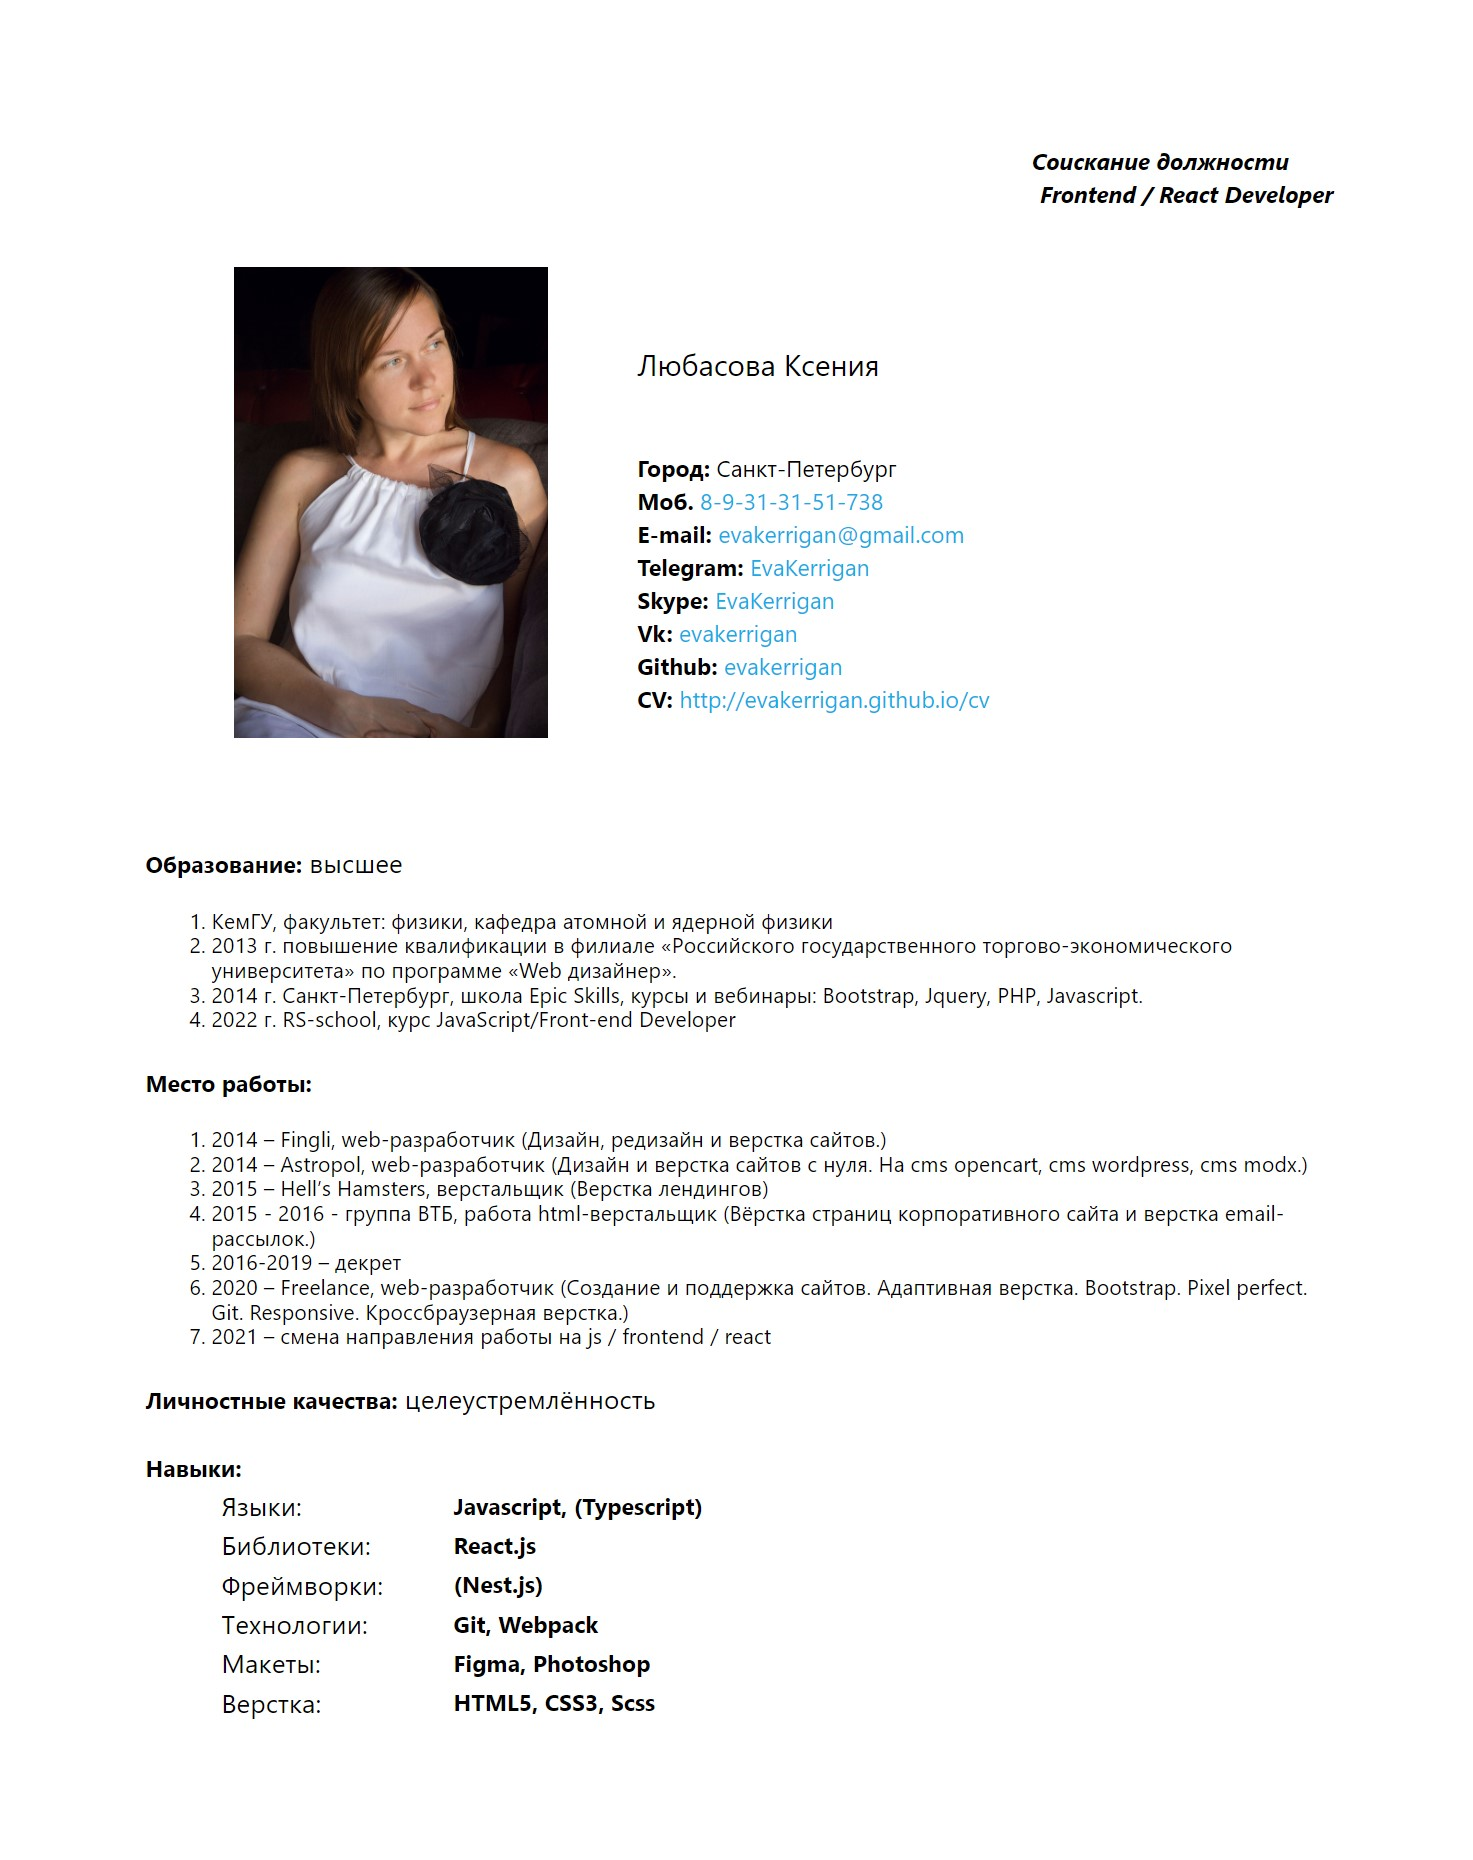
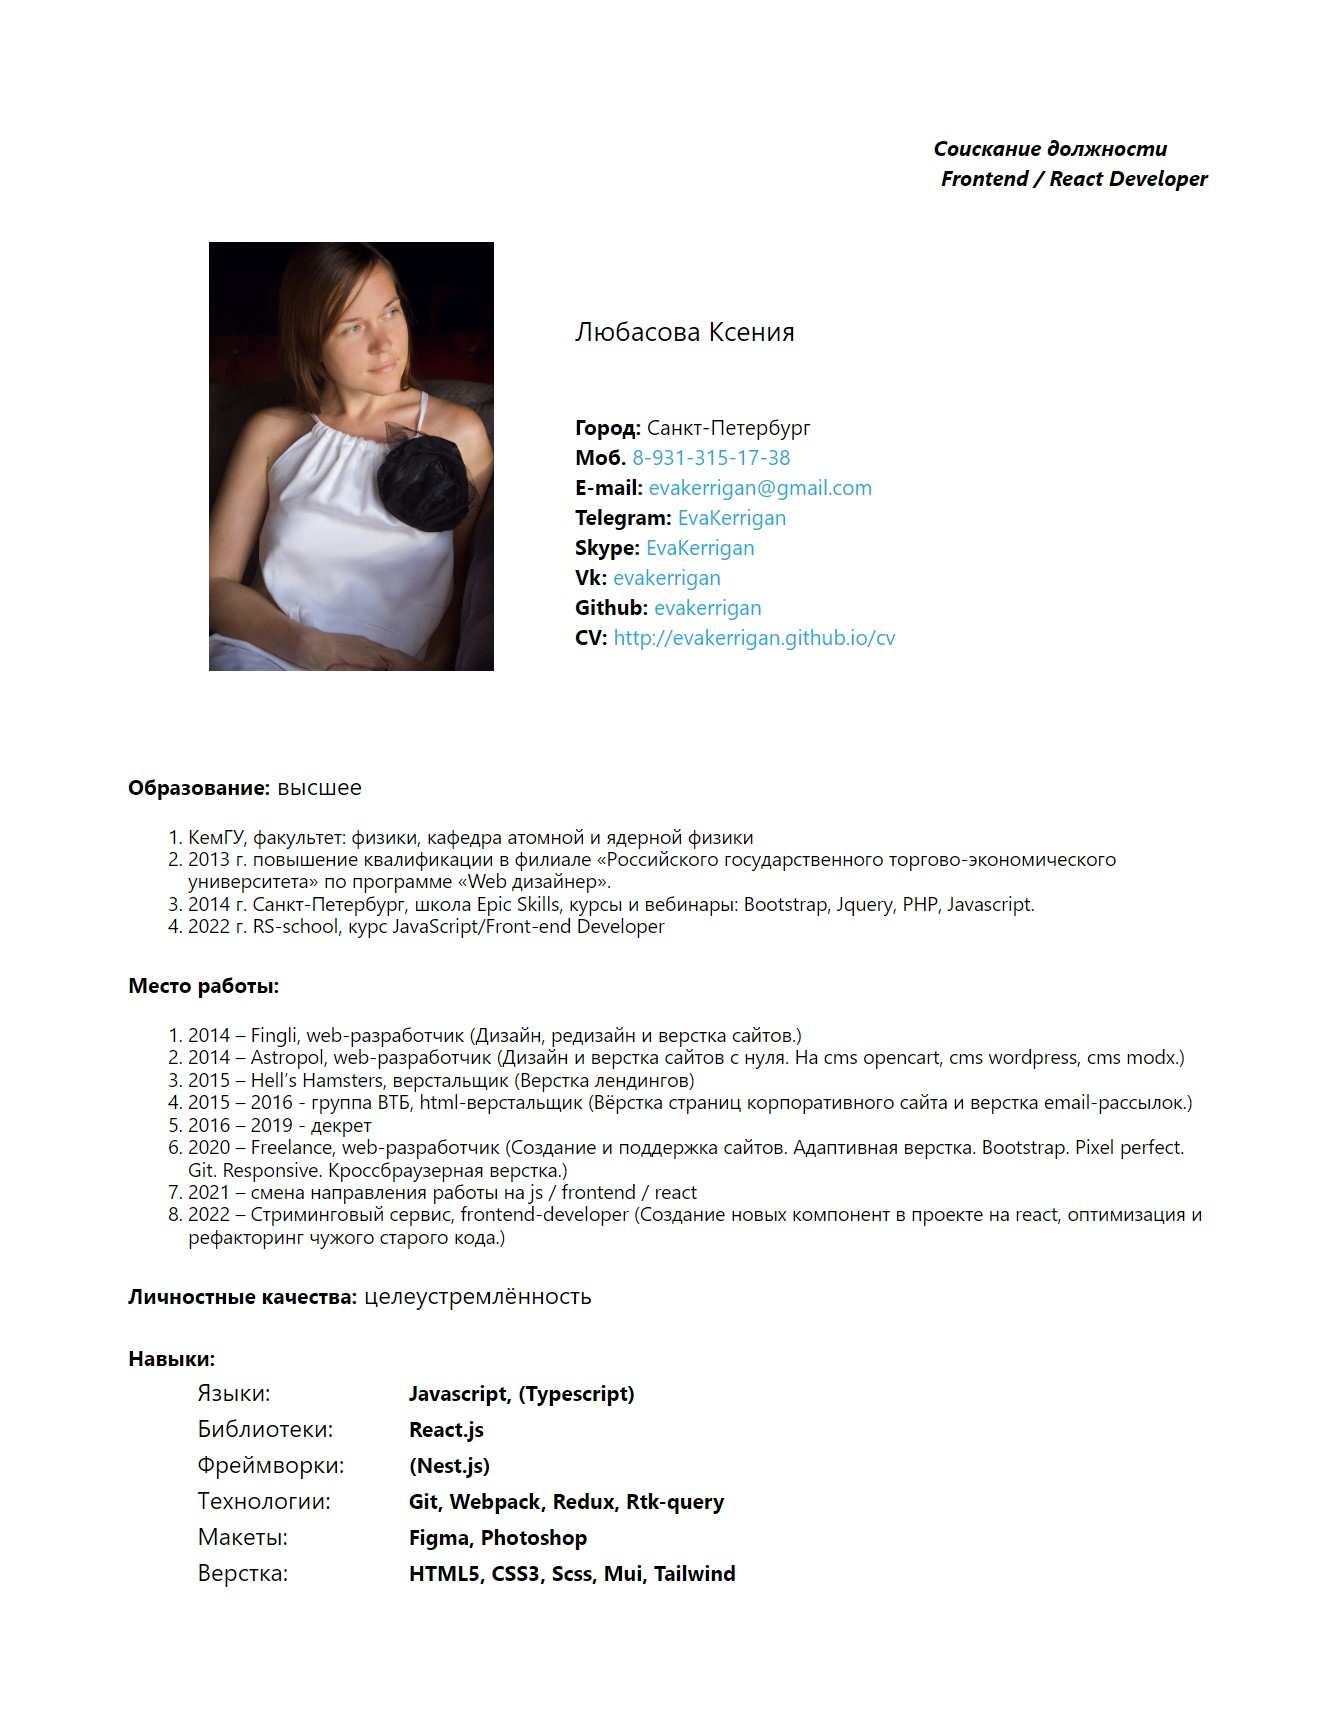
feat: add projects

diff --git a/index.html b/index.html
@@ -117,6 +117,7 @@
                         <section id="hobbies">
                             <h2 class="content-title">Увлечения</h2>
                             <ul class="content-hobbies-list">
+                                <li class="content-hobbies-item">IT</li>
                                 <li class="content-hobbies-item">Фотография</li>
                                 <li class="content-hobbies-item">Психология</li>
                                 <li class="content-hobbies-item">Путешествия</li>
@@ -132,6 +133,20 @@
                     <section id="experience">
                         <h2 class="content-title">Опыт работы</h2>
                         <ul class="content-expiriens-list">
+                            <li class="content-expiriens-item expiriens-wrapper">
+                                <div class="expiriens-left-block">
+                                    <div class="content-expiriens-date">2022</div>
+                                    <div class="content-expiriens-company">Стриминговый<br /> сервис</div>
+                                </div>
+                                <div class="expiriens-right-block">
+                                    <div class="content-expiriens-profession">Frontend-разработчик</div>
+                                    <div class="content-expiriens-tasks">
+                                        Работа в экосистеме React.js. Создание новых компонент в проекте,
+                                        оптимизация и рефакторинг чужого старого кода, настройка используемых
+                                        внешних библиотек под особенности проекта.
+                                    </div>
+                                </div>
+                            </li>
                             <li class="content-expiriens-item expiriens-wrapper">
                                 <div class="expiriens-left-block">
                                     <div class="content-expiriens-date">2019-2020</div>
@@ -201,14 +216,19 @@
                             <li class="content-skills-item"><span>JavaScript</span></li>
                             <li class="content-skills-item"><span>TypeScript</span></li>
                             <li class="content-skills-item"><span>React</span></li>
+                            <li class="content-skills-item"><span>Redux</span></li>
+                            <li class="content-skills-item"><span>Rtk Query</span></li>
                             <li class="content-skills-item"><span>HTML5</span></li>
                             <li class="content-skills-item"><span>CSS3</span></li>
                             <li class="content-skills-item"><span>Figma</span></li>
                             <li class="content-skills-item"><span>Photoshop</span></li>
                             <li class="content-skills-item"><span>GIT</span></li>
                             <li class="content-skills-item"><span>Pixel Perfect</span></li>
+                            <li class="content-skills-item"><span>Vite</span></li>
                             <li class="content-skills-item"><span>Webpack</span></li>
                             <li class="content-skills-item"><span>Scss</span></li>
+                            <li class="content-skills-item"><span>Trello</span></li>
+                            <li class="content-skills-item"><span>Jira</span></li>
                         </ul>
                     </section>
                 </div>
@@ -223,7 +243,15 @@
                             <img class="portfolio-img" src="image/2023-eva-images.jpg" alt="rs-club">
                         </a>
                         <div class="portfolio-description">
-                            <em>React, ts, jest, портфолио-магазин фотографий для рекламы</em>
+                            <em>Портфолио-магазин, React, typescript, jest, redux, rtk Query</em>
+                        </div>
+                    </li>
+                    <li class="portfolio-item">
+                        <a class="portfolio-link" href="https://evakerrigan.github.io/exotic-fruit/" target="_blank">
+                            <img class="portfolio-img" src="image/2022-exotic-fruit.jpg" alt="shop exotic fruit">
+                        </a>
+                        <div class="portfolio-description">
+                            <em>Онлайн-магазин, React, корзина, дизайн, typescript </em>
                         </div>
                     </li>
                     <li class="portfolio-item">
@@ -231,7 +259,8 @@
                             <img class="portfolio-img" src="image/2023-rs-club.jpg" alt="rs-club">
                         </a>
                         <div class="portfolio-description">
-                            <em>React, Nest, Mongo, ts, командная работа, авторизация через github, deploy на
+                            <em>Социальная сеть, React, Nest, Mongo, typescript, командная работа, авторизация через
+                                github, deploy на
                                 vercel</em>
                         </div>
                     </li>
@@ -241,7 +270,15 @@
                             <img class="portfolio-img" src="image/2023-online-shop.jpg" alt="online-shop">
                         </a>
                         <div class="portfolio-description">
-                            <em>SPA, js, ts, командная работа</em>
+                            <em>Онлайн-магазин, SPA, js, typescript, командная работа</em>
+                        </div>
+                    </li>
+                    <li class="portfolio-item">
+                        <a class="portfolio-link" href="https://melodious-fox-fdc007.netlify.app/" target="_blank">
+                            <img class="portfolio-img" src="image/2023-graphiql-api.jpg" alt="graphiql-api">
+                        </a>
+                        <div class="portfolio-description">
+                            <em>Graphql-ide, react, typescript</em>
                         </div>
                     </li>
                 </ul>
@@ -256,11 +293,12 @@
                         </div>
                     </li>
                     <li class="portfolio-item">
-                        <a class="portfolio-link" href="https://evakerrigan.github.io/exotic-fruit/" target="_blank">
-                            <img class="portfolio-img" src="image/2022-exotic-fruit.jpg" alt="shop exotic fruit">
+                        <a class="portfolio-link" href="https://evakerrigan.github.io/eldritch-codejam/"
+                            target="_blank">
+                            <img class="portfolio-img" src="image/2022-eldritch.jpg" alt="eldritch">
                         </a>
                         <div class="portfolio-description">
-                            <em>React, корзина, дизайн, ts </em>
+                            <em>js, система замешивания карт</em>
                         </div>
                     </li>
                     <li class="portfolio-item">
@@ -283,15 +321,7 @@
                             <em>слайдер на css без js</em>
                         </div>
                     </li>
-                    <li class="portfolio-item">
-                        <a class="portfolio-link" href="https://evakerrigan.github.io/eldritch-codejam/"
-                            target="_blank">
-                            <img class="portfolio-img" src="image/2022-eldritch.jpg" alt="eldritch">
-                        </a>
-                        <div class="portfolio-description">
-                            <em>js, система замешивания карт</em>
-                        </div>
-                    </li>
+
                     <li class="portfolio-item">
                         <a class="portfolio-link"
                             href="https://rolling-scopes-school.github.io/evakerrigan-JSFE2022Q1/shelter/pages/main/index.html"
@@ -300,6 +330,16 @@
                         </a>
                         <div class="portfolio-description">
                             <em>адаптивный лендинг, js, пагинация, слайдер, попап</em>
+                        </div>
+                    </li>
+                    <li class="portfolio-item">
+                        <a class="portfolio-link"
+                            href="https://rolling-scopes-school.github.io/evakerrigan-JSFE2022Q3/online-zoo/pages/main/index.html"
+                            target="_blank">
+                            <img class="portfolio-img" src="image/2022-online-zoo.jpg" alt="online-zoo">
+                        </a>
+                        <div class="portfolio-description">
+                            <em>адаптивный лендинг, js, слайдер, попап</em>
                         </div>
                     </li>
                     <li class="portfolio-item">
@@ -319,16 +359,6 @@
                         </a>
                         <div class="portfolio-description">
                             <em>js, перетаскивание плашек, звуковое сопровождение</em>
-                        </div>
-                    </li>
-                    <li class="portfolio-item">
-                        <a class="portfolio-link"
-                            href="https://rolling-scopes-school.github.io/evakerrigan-JSFE2022Q3/online-zoo/pages/main/index.html"
-                            target="_blank">
-                            <img class="portfolio-img" src="image/2022-online-zoo.jpg" alt="online-zoo">
-                        </a>
-                        <div class="portfolio-description">
-                            <em>адаптивный лендинг, js, слайдер, попап</em>
                         </div>
                     </li>
                     <li class="portfolio-item">
@@ -438,8 +468,8 @@
                             <div class="">
                                 <div class="row b-resume-contacts">
                                     <div class="resume-photo">
-                                        <img src="image/me.jpg" class="b-resume-photo"
-                                            alt="my-photo" title="evakerrigan">
+                                        <img src="image/me.jpg" class="b-resume-photo" alt="my-photo"
+                                            title="evakerrigan">
                                     </div>
                                     <div class=""><br /><br />
                                         <div class="b-resume-name">
@@ -521,6 +551,10 @@
                                             верстка. Bootstrap. Pixel perfect. Git. Responsive. Кроссбраузерная
                                             верстка.) </li>
                                         <li>2021 – смена направления работы на js / frontend / react</li>
+                                        <li>2022 – Стриминговый сервис, frontend-developer
+                                            (Работа в экосистеме React.js. Создание новых компонент в проекте,
+                                            оптимизация и рефакторинг чужого старого кода, настройка используемых
+                                            внешних библиотек под особенности проекта.)</li>
                                     </ol>
                                 </div>
                             </div>
@@ -551,7 +585,7 @@
                                         </tr>
                                         <tr>
                                             <td>Технологии: </td>
-                                            <td><span><strong>Git, Webpack</strong></span></td>
+                                            <td><span><strong>Git, Webpack, Redux, Rtk-query</strong></span></td>
                                         </tr>
                                         <tr>
                                             <td>Макеты: </td>
@@ -559,7 +593,7 @@
                                         </tr>
                                         <tr>
                                             <td>Верстка:</td>
-                                            <td><span><strong>HTML5, CSS3, Scss</strong></span></td>
+                                            <td><span><strong>HTML5, CSS3, Scss, Mui, Tailwind</strong></span></td>
                                         </tr>
                                     </table>
                                 </div>
